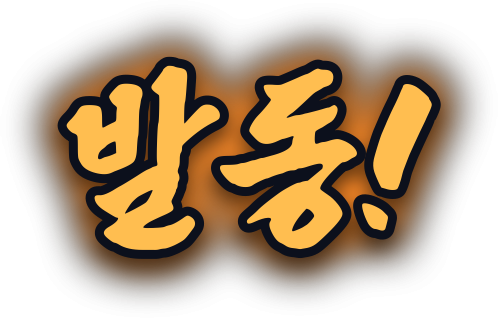
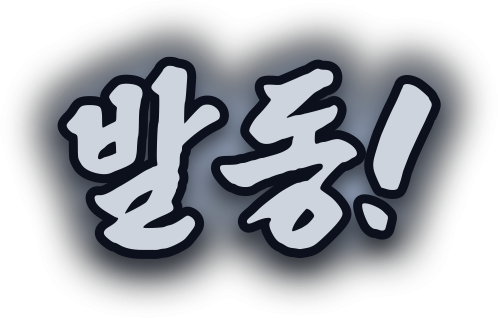
효과 글씨 13장 전부 적용 완료
마지막 4장: 큰턱공격! 씨름선수! 콰쾅! + 발동!(회색으로 교체)

- 때리는 순간의 💥 이모지를 콰쾅! 그림으로 바꿨다(IMPACT_ART).
  크리티컬은 ⚡ 로 남겼다 — 보통 타격과 확실히 달라 보여야 한다.
- 발동!이 퍼펙트!와 똑같은 금색이라 제일 잘한 판정과 제일 못한
  판정이 구분되지 않았다. Jin이 회색본을 다시 만들어 줘서 교체했다.
  이제 금색(1.35) → 청록(1.20) → 흰색(1.10) → 회색(1.00) 순으로
  밝기가 떨어져 한눈에 보인다.

앱 배경색(#020617) 위에 올려 눈으로 확인했고, 390px 폰 폭에서
13장 모두 로드·깨짐 0. 프로덕션 빌드도 통과했다.

Claude-Session: https://claude.ai/code/session_01G9sW5nmQfT8Uken8LBLkpA

diff --git a/lib/fx-art.ts b/lib/fx-art.ts
@@ -44,9 +44,9 @@ export const MOVE_ART: Partial<Record<SpecialMoveKey, FxArt>> = {
   commonAttack: { src: '/fx/move-commonAttack.png' }, //   공격!!
   // 두 줄짜리라 높이를 키운다 (위 FxArt.height 설명 참고)
   bee: { src: '/fx/move-bee.png', height: 200 }, //  나비처럼 날아 벌처럼 쏜다!
-  // stag:  { src: '/fx/move-stag.png' },   // 큰턱공격!  ← 아직 안 옴
-  // rhino: { src: '/fx/move-rhino.png' },  // 씨름선수!  ← 아직 안 옴
+  stag: { src: '/fx/move-stag.png' }, //             큰턱공격!
+  rhino: { src: '/fx/move-rhino.png' }, //           씨름선수!
 };
 
 /** 서로 때리는 순간. 없으면 지금처럼 💥 이모지가 나온다. */
-export const IMPACT_ART: FxArt | null = null; // { src: '/fx/impact.png' }  ← 콰쾅!
+export const IMPACT_ART: FxArt | null = { src: '/fx/impact.png' }; // 콰쾅!
